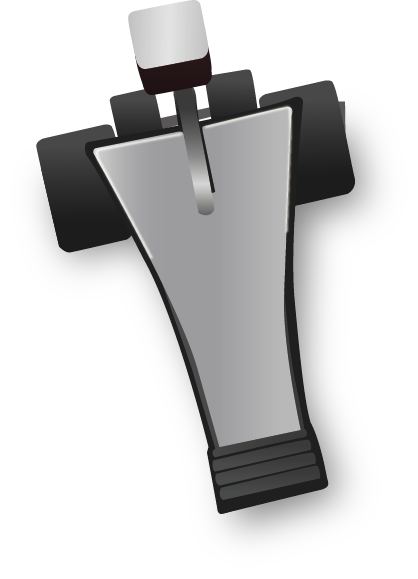
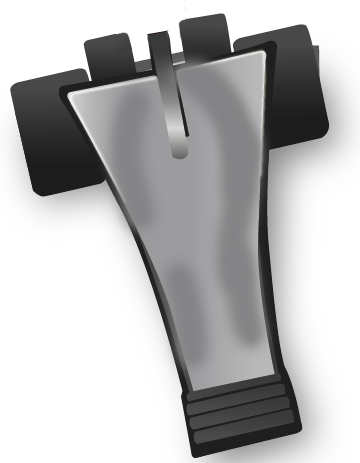
animacion pedal

diff --git a/src/css/instrument/instrument.css b/src/css/instrument/instrument.css
@@ -448,6 +448,29 @@
         }
     }
 
+    /*animacion pedal la parte frontal*/
+    .hitPedal {
+        animation: .2s .1ms pedalUp;
+    }
+
+    @keyframes pedalUp {
+        0% {
+            transform: scaleY(.8);
+            filter: brightness(.8);
+        }
+    }
+
+    /*animacion de la cabeza del pedal */
+    .hitBeater {
+        animation: .2s .1ms beaterUp;
+    }
+
+    @keyframes beaterUp {
+        0% {
+            transform: scaleY(.25);
+        }
+    }
+
     .instrument-container--desktop {
         box-shadow: rgba(0, 0, 0, 0.25) 0px 2px 5px 0px;
         background-image: url(../../../public/assets/drum/fondo.jpg);
@@ -737,8 +760,9 @@
 
     .instrument-container__openhh {
         margin-left: 8%;
-        margin-top: 35%;
+        margin-top: 38%;
         height: 23%;
+        z-index: 7;
     }
 
     .instrument-container__closehh {
@@ -750,6 +774,24 @@
     .instrument-container__pedal {
         margin-top: 32%;
         margin-left: 43%;
+    }
+
+    .head-pedal {
+        background: url(../../../public/assets/drum/pedal-cabeza.png) no-repeat;
+        background-size: 35%;
+        background-position: 68% 0;
+        width: 70%;
+        z-index: 1;
+        height: 70%;
+    }
+
+    .pedal-face {
+        background: url(../../../public/assets/drum/pedal-frontal.png) no-repeat;
+        background-size: 40%;
+        background-position: 55% 45%;
+        width: 100%;
+        height: 100%;
+
     }
 
     .instrument-container__stick1,

diff --git a/src/js/app.js b/src/js/app.js
@@ -108,6 +108,8 @@ document.addEventListener("DOMContentLoaded", () => {
   const crashTwoBack = document.querySelector(".cymbal-crash--two-back");
 
   const pedal = document.querySelector(".instrument-container__pedal");
+  const headPedal = document.querySelector(".head-pedal");
+  const bodyPedal = document.querySelector(".pedal-face");
   //Baquetas
   const rightStick = document.querySelector(".right-drumstick")
   const leftStick = document.querySelector(".left-drumstick")

diff --git a/pages/instrument.html b/pages/instrument.html
@@ -85,8 +85,9 @@
             <span class="right-drumstick">
             </span>
           </div>
-
           <div class="instrument-container__pedal">
+            <div class="head-pedal"></div>
+            <div class="pedal-face"></div>
           </div>
         </section>
 
